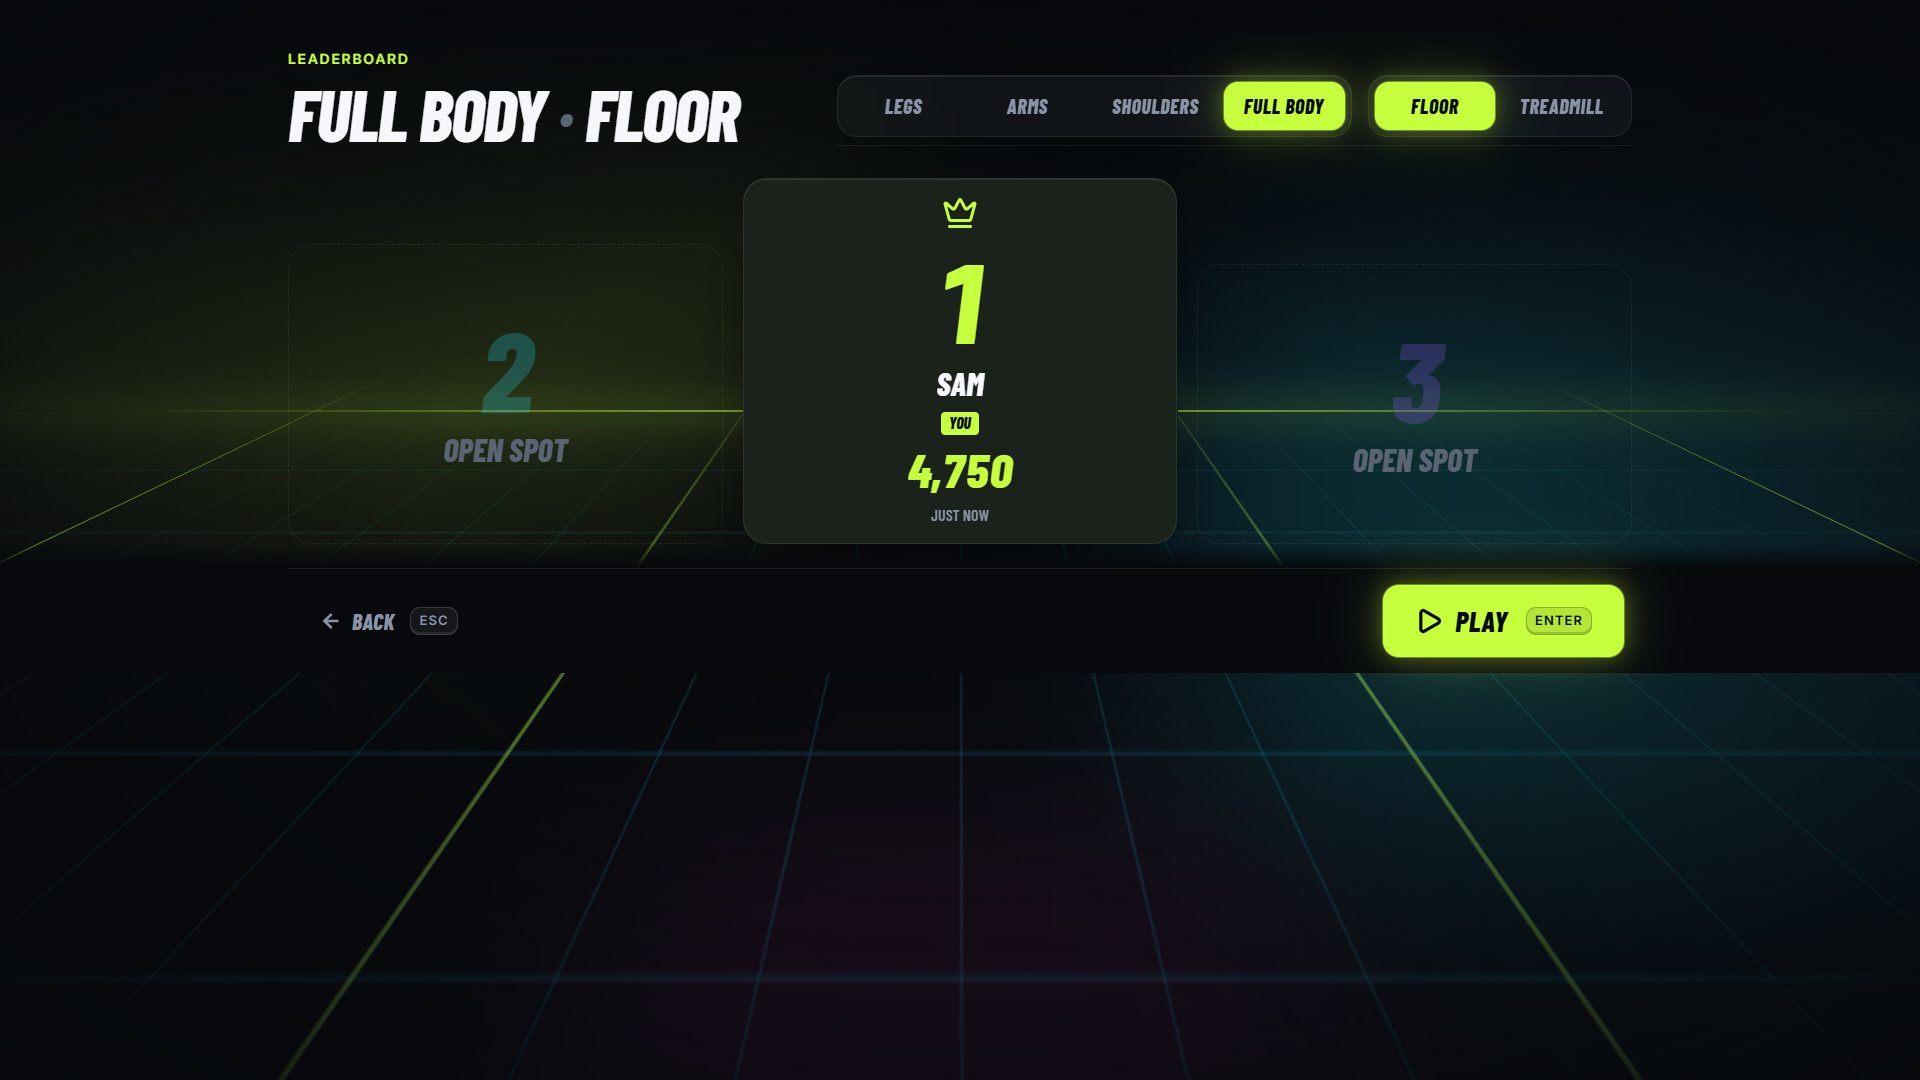
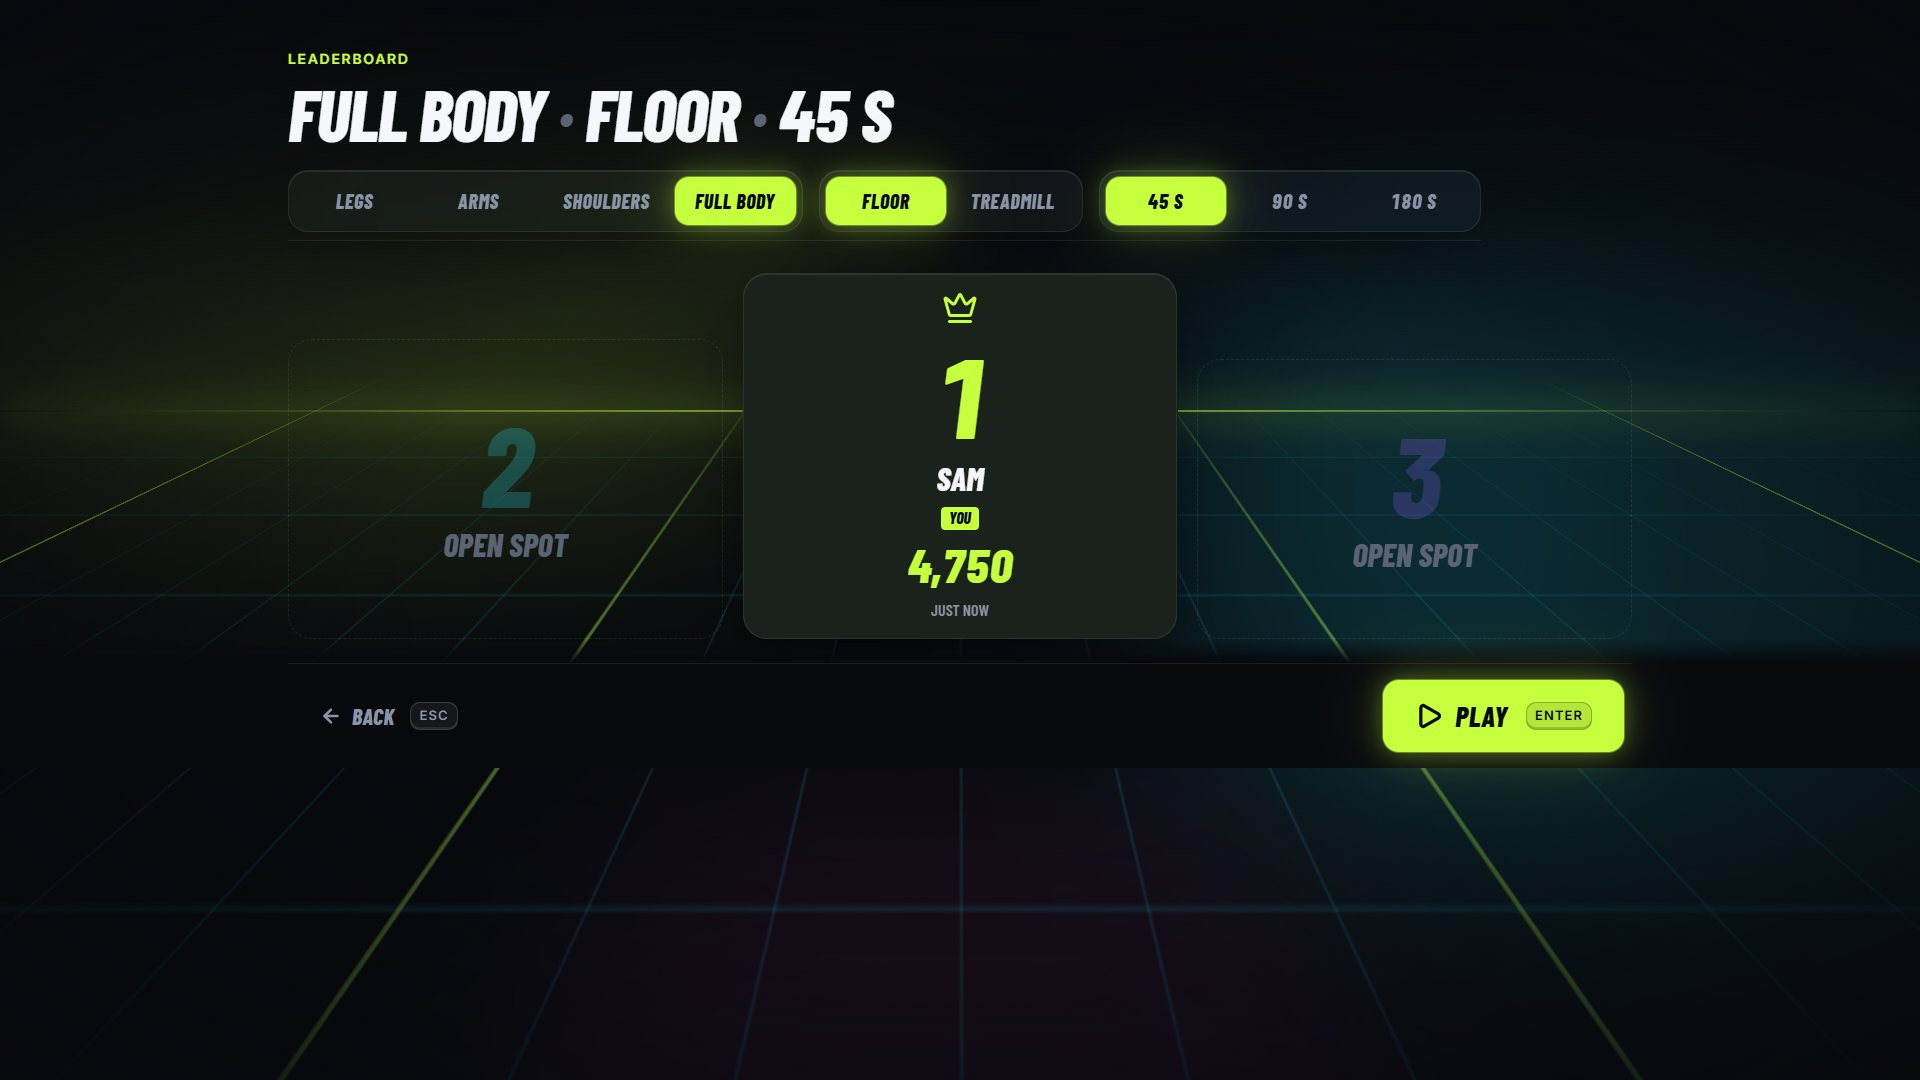
Leaderboard per round length: checked at 3 sizes, Q16 fixed, Devpost 12/13 retaken
## What changed
- `docs/QA.md`: Q16 marked fixed (verified), Q15 marked "being decided by Greg", a "Per-length boards (#45)" verification entry, log line.
- `docs/submission/12-leaderboard.jpg`, `13-kiosk.jpg` retaken on ba46d74 (title now "FULL BODY · FLOOR · 45 S", length filter visible); captions updated in `docs/SUBMISSION.md`.
- `README.md`, `docs/SUBMISSION.md`: the leaderboard is per workout, mode **and round length** (the view also carries `duration_sec` since migration 0003); kiosk shows the 45 s Full body floor board; Camera is preselected on the select screen when the laptop has one (3c1be45).
- `docs/qa/leaderboard-1280x720.jpg` new; `leaderboard-empty-filter.jpg` now shows the empty 90 s board.

## How I tested it
- `npm run dev` on `main` ba46d74, `?demo=1&store=local`, Chrome 157 headless: one scripted 45 s round (results said "#1 on the leaderboard"), then leaderboard and `?kiosk=1` at 1920×1080, 1366×768, 1280×720: group boxes, clipped options, horizontal scroll, page height. At 1280×720: 90 S (empty: title, filters and BACK stay), Treadmill (Legs disabled), back to 45 S.
- Q16: a local profile with three 45 s rounds shows "Sam" once on the landing top list, the board and the kiosk.
- The 6× figure: Patrick's measurements on `p5-game` (`src/workout/README.md`, "Leaderboard fairness": Full body floor 5,033 at 45 s vs 30,790 at 180 s, perfect play), also cited in migration 0003.
- `npm run check` passes; prettier passes on the changed docs.

## Not tested
[…]

diff --git a/README.md b/README.md
@@ -2,7 +2,7 @@
 
 **A workout you play with your whole body, using only your laptop's webcam.** Built at CodeJam 16 (McGill).
 
-Pick what to train (legs, arms, shoulders or full body) and a 3-lane neon runner is generated for that workout, through a city, a tunnel and a bridge, to a synthesised beat that speeds up as you go. You stand about 1.5 m from the laptop: sidestep to change lane, jump hurdles, squat under beams, raise your arms to smash crates and grab orbs. Each move is graded PERFECT, GOOD or LATE. Pose tracking runs in the browser, so **the video never leaves your laptop**. Every round is saved to your profile, a dashboard tracks your week, a leaderboard ranks scores, a ghost runner replays your best run beside you, and a coach recommends your next session. A treadmill mode uses upper-body moves only.
+Pick what to train (legs, arms, shoulders or full body) and a 3-lane neon runner is generated for that workout, through a city, a tunnel and a bridge, to a synthesised beat that speeds up as you go. You stand about 1.5 m from the laptop: sidestep to change lane, jump hurdles, squat under beams, raise your arms to smash crates and grab orbs. Each move is graded PERFECT, GOOD or LATE. Pose tracking runs in the browser, so **the video never leaves your laptop**. Every round is saved to your profile, a dashboard tracks your week, a leaderboard ranks best scores per workout, mode and round length (45, 90 or 180 s), a ghost runner replays your best run beside you, and a coach recommends your next session. A treadmill mode uses upper-body moves only.
 
 Live site: https://codejam-jet.vercel.app (deployed from `main`). Chrome only.
 
@@ -25,7 +25,7 @@ Live site: https://codejam-jet.vercel.app (deployed from `main`). Chrome only.
 
 Treadmill mode generates only crates and orbs. "Low impact" removes hurdles. Before the first round, "Try each move" walks through every move of the coming round.
 
-**Flow:** landing → profile (or play as a guest) → pick a workout and Camera or Keyboard → calibration (camera: stand on your mark, head to knees in view, still for 1.5 s) → 3-2-1 → round → results with the coach card → dashboard and leaderboard.
+**Flow:** landing → profile (or play as a guest) → pick a workout (Camera is preselected when the laptop has one; Keyboard is remembered if chosen) → calibration (camera: stand on your mark, head to knees in view, still for 1.5 s) → 3-2-1 → round → results with the coach card → dashboard and leaderboard.
 
 **Hands-free:** cross your forearms in an X at chest height for 1 s to pause; the same X resumes. On results, raise both arms to play again.
 
@@ -38,7 +38,7 @@ npm install
 npm run dev        # http://localhost:5173
 ```
 
-- With no `.env.local`, the app uses the **local store** (browser storage): everything works, and the leaderboard shows only this browser's rounds.
+- With no `.env.local`, the app uses the **local store** (browser storage): everything works, and the leaderboard shows only this browser's player.
 - For Supabase, `cp .env.example .env.local` and fill in `VITE_SUPABASE_URL` and `VITE_SUPABASE_ANON_KEY` (public anon key; row-level security protects the data).
 - `npm run dev` does not serve `/api`, so the coach card shows the rule-based coach. `npx vercel dev` serves the coach endpoint too.
 - `npm run check` runs typecheck, lint, the Vitest suite and the production build.
@@ -47,7 +47,7 @@ npm run dev        # http://localhost:5173
 | --- | --- |
 | `?demo=1` | Every round is the fixed 45 s Full body demo level (seed 41492) |
 | `?store=local` | Skip the backend; store everything in this browser |
-| `?kiosk=1` | Leaderboard-only screen with a QR code, refreshes every 15 s |
+| `?kiosk=1` | Leaderboard-only screen (Full body · floor · 45 s) with a QR code, refreshes every 15 s |
 | `?dev=pose` | Pose debug page: live landmarks, thresholds, move tally, clip recorder |
 | `?gfx=low` / `?gfx=2d` | Lower graphics / force the Canvas 2D fallback (otherwise automatic) |
 | `?mute=1`, `?music=off` | No sound / effects only, no music |
@@ -76,7 +76,7 @@ flowchart LR
 - **Pose** (`src/pose`): MediaPipe Pose Landmarker (lite model, GPU, served from `public/`, no CDN). Calibration records the player's hip centre, shoulder width and torso length, and every threshold is a fraction of those, so it adapts to height and distance. Design notes: [src/pose/DECISIONS.md](src/pose/DECISIONS.md).
 - **Game** (`src/game`): plain Three.js with its own loop outside React. Each object is judged over a window (0.35 s before to 0.15 s after arrival). With the camera, objects are drawn ahead of the judging clock by each move's measured detection lag (0.1 s for jumps up to 0.3 s for squats and arms), so reacting on sight lands inside the window. Details: [src/game/README.md](src/game/README.md).
 - **Levels** (`src/workout`): seeded generator with a warm-up, build, peak and cool-down, and fairness rules tested on every workout, mode and length.
-- **Backend** (`src/data`, `supabase/`, `api/`): anonymous guest sign-in; `profiles` and `sessions` behind row-level security (each user reads only their own rows); a `leaderboard` view that exposes only name, workout, mode, score and date. Rounds played offline wait in a local queue and sync later.
+- **Backend** (`src/data`, `supabase/`, `api/`): anonymous guest sign-in; `profiles` and `sessions` behind row-level security (each user reads only their own rows); a `leaderboard` view that exposes only each player's best per workout, mode and round length (name, score, date). One board per length, because a 180 s round scores about 6× a 45 s one. Rounds played offline wait in a local queue and sync later.
 - **Coach:** `POST /api/coach` checks the user's token, reads their history through row-level security (no service key), applies a per-user rate limit (one call per 10 s, atomic in Postgres), asks Claude for structured JSON with a 7 s timeout, and validates the answer. **No Claude key is configured for the demo**, so the card you see is the rule-based coach in `src/data/coach.ts`: it recommends the workout you played least this week, moves difficulty up or down from your accuracy, and points the tip at the move you missed most. Adding `ANTHROPIC_API_KEY` on the server turns the Claude path on. Its answer validation and rate limit are unit-tested; it has not yet answered with a real key.
 
 ## Privacy

diff --git a/docs/QA.md b/docs/QA.md
@@ -4,9 +4,9 @@
 
 Branches are pushed with the PR text in the first commit message (`git log --reverse main..<branch>`).
 
-1. **Decide Q15:** the HUD cue word, the "N COMBO!" banner and the "VS GHOST" chip share the top-centre band and overprint each other. Either the UI moves the cue, or Patrick moves the banner and chip (details below).
+1. **Q15 is being decided** (Greg): the HUD cue word, the "N COMBO!" banner and the "VS GHOST" chip share the top-centre band and overprint each other. Either the UI moves the cue, or Patrick moves the banner and chip (details below).
 
-## Status (Sat 15:55, `main` at bb17780)
+## Status (Sat 15:55, `main` at bb17780; leaderboard re-checked on ba46d74)
 
 Full keyboard flow at 1366×768, 1920×1080 and 1280×720 with the new game (city/tunnel/bridge zones, beat, PERFECT/GOOD/LATE, 3-2-1 intro), plus a check of every fix in #40 and #41. **No console errors, no horizontal scroll, every round finished and saved.** `npm run check` on bff0541: 699 tests, none skipped.
 
@@ -26,8 +26,8 @@ Full keyboard flow at 1366×768, 1920×1080 and 1280×720 with the new game (cit
 | Q12 | minor | Landing QR below the fold at 1366/1280 | `src/ui` | open (use `?kiosk=1`) |
 | Q13 | minor | One NaN row would block the offline queue | Greg | **fixed** (test runs and passes) |
 | Q14 | visible | "Cross your arms to resume" is small, grey, and shown to keyboard players | `src/ui` | **open** |
-| Q15 | visible | HUD cue word overprints the "N COMBO!" banner and the VS GHOST chip | `src/ui` or Patrick | **open**, needs a decision |
-| Q16 | minor | Local store leaderboard lists every round, not each player's best | Greg | **open** |
+| Q15 | visible | HUD cue word overprints the "N COMBO!" banner and the VS GHOST chip | `src/ui` or Patrick | **open**, being decided by Greg |
+| Q16 | minor | Local store leaderboard listed every round, not each player's best | Greg | **fixed**, verified |
 | A1 | visible | Results: "RAISE BOTH ARMS TO PLAY AGAIN" was 20 px | `src/ui` | **fixed** (code; camera-only screen) |
 | A2 | visible | Tutorial hint was 20 px grey | Greg | **fixed**, verified |
 | A3 | minor | Tracking-lost subtext 16 px; "Camera starting…" 14 px | `src/ui` | half fixed: "Camera starting…" open |
@@ -52,11 +52,6 @@ Full keyboard flow at 1366×768, 1920×1080 and 1280×720 with the new game (cit
 - **Cause:** the cue is in the top band (`hud-cue`, `top-[124px]`, `GameHud.tsx:238`), where the game draws its banner (`BANNER_POS` y 3.3) and race chip (`RACE_POS` y 6.2, `src/game/tuning.ts`).
 - **Owner:** `src/ui` or Patrick; needs one decision. **Fix options (untested):** move the banner and chip lower, between the cue band and the horizon; or move the cue to one side of the top band (e.g. under the score) so the centre stays free for the game's labels.
 
-### Q16. Local store leaderboard shows the same player twice
-- **Steps:** `?store=local`, play two rounds with one guest → Leaderboard (or `?kiosk=1`).
-- **Saw:** "Sam" at #1 (4,750) and #2 (1,750). The Supabase `leaderboard` view keeps each user's best only (CONTRACTS.md), so only the offline path differs.
-- **Owner:** Greg (`src/data/local.ts` `getLeaderboard`). **Fix:** keep the best session per display name before sorting.
-
 ### Q12, A3 (minor)
 - **Q12:** the landing "Play on your laptop" QR starts at y 748 (below the fold at 720, at the edge at 768) ([landing-1366.jpg](qa/landing-1366.jpg)). Use `?kiosk=1` for the QR at the table.
 - **A3:** calibration "Camera starting…" is still a 14 px muted eyebrow (`CalibrationScreen.tsx:117`) while the player walks to the mark. Fix: `font-display-italic text-display-sm text-text`.
@@ -74,6 +69,8 @@ Full keyboard flow at 1366×768, 1920×1080 and 1280×720 with the new game (cit
 - **Q9, Q10** (5a85969): offline mid-round → banner at the bottom, "Offline. Your rounds are saved on this laptop." on the local store ([offline-banner.jpg](qa/offline-banner.jpg)); no NOT SYNCED.
 - **Q11:** dashboard says "1 DAY" and "1 round · Best …".
 - **Q13:** the `mapping-edges` test runs and passes.
+- **Q16** (ba46d74): a local profile with three 45 s rounds (best 4,750) shows "Sam" once on the landing top list, the leaderboard and `?kiosk=1`.
+- **Per-length boards (#45, ba46d74):** at 1920×1080, 1366×768 and 1280×720 the three filter groups (workout, mode, 45/90/180 S) sit on one row with nothing clipped and no horizontal scroll ([leaderboard-1280x720.jpg](qa/leaderboard-1280x720.jpg)); 1280×720 is 722 px tall (a 2 px scroll). 90 S with no rounds keeps the title "FULL BODY · FLOOR · 90 S", the filters and BACK ([leaderboard-empty-filter.jpg](qa/leaderboard-empty-filter.jpg)); Legs is disabled on Treadmill; results said "#1 on the leaderboard" for the 45 s round. `?kiosk=1` shows the 45 s board with no filters at all three sizes, no scroll. Not tested: Supabase (migration 0003 and other players on the board).
 - **A1:** `ResultsScreen.tsx` now uses `text-display-sm` (48 px) and a 96 px figure. Only shown with the camera, so read from code.
 - **A2** (5a85969): tutorial counter 32 px, move name 72 px, hint 48 px white ([tutorial-1280x720.jpg](qa/tutorial-1280x720.jpg)).
 - **A3, first half:** the tracking-lost subtext is `text-title text-text` (32 px, white).
@@ -120,3 +117,4 @@ Open suggestions: preload the pose model on the landing page for live-URL visito
 | 15:50 | Operator card (`q-operator`), pitch 2 (`q-pitch-2`) | Card from DEMO.md and the app; Q&A for the new features; round timed at 50.1 s START → results |
 | 15:55 | Verify #41 on bb17780 (`q-qa-2`) | Q1, Q3, Q4, Q5, Q7, Q11, A1 fixed; A3 half; Q12, Q14, Q15, Q16 open |
 | 16:04 | Loop: #42 on bff0541 | New scenery colours and bigger icons; Devpost game frames retaken (`q-shots`); Q15 re-checked, still open; 699 tests |
+| 16:25 | Leaderboard per length (`q-board`, ba46d74) | 3 sizes: filters fit on one row, empty 90 s board keeps filters, kiosk shows 45 s; Q16 verified fixed; 12/13 Devpost shots retaken; README/SUBMISSION board wording updated. Not tested: Supabase |

diff --git a/docs/SUBMISSION.md b/docs/SUBMISSION.md
@@ -42,7 +42,7 @@ Three people, four modules, one shared TypeScript contract file (`src/contracts/
 - **Levels.** A seeded generator (same seed, same level) shapes each round into warm-up, build, peak and cool-down, and enforces fairness rules: the first object at 4 s or later, at least 1.1 s between waves, 1.5 s between a beam and a hurdle, and a block always leaves a free lane at most one lane from the last one. They are tested on every workout × mode × difficulty × length × 40 seeds.
 - **Ghost runner.** The game records five states (lane, airborne, ducking, each arm) at 20 Hz of game time, about 1 KB per 45 s level, in browser storage. A 64-bit fingerprint of the level makes sure a ghost only replays on the identical level. The live "vs ghost" score comes from judging the recording with a shadow copy of the game rules. Camera and keyboard ghosts are kept apart, because a keyboard run has no lag and would be unbeatable.
 - **Graphics that adapt.** The game steps down its own quality (pixel ratio, then bloom) when it runs under 45 FPS, and falls back to a Canvas 2D view if WebGL cannot start.
-- **Backend.** Supabase anonymous sign-in and Postgres. Row-level security on every table: a player can read and insert only their own sessions, with no update or delete. A `leaderboard` view exposes only name, workout, mode, score and date. Check constraints keep stored values in sane ranges.
+- **Backend.** Supabase anonymous sign-in and Postgres. Row-level security on every table: a player can read and insert only their own sessions, with no update or delete. A `leaderboard` view exposes only each player's best per workout, mode and round length (name, score, date); one board per length, because a 180 s round scores about 6× a 45 s one. Check constraints keep stored values in sane ranges.
 - **Offline.** If the network drops, the round is still played and saved. Sessions wait in a local queue and sync later, reads time out quickly and fall back to cache, and the coach falls back to the rules. `?store=local` runs with no backend at all.
 - **Coach endpoint.** A Vercel serverless function checks the player's token, reads their history through a Supabase client that carries that token (so row-level security applies on the server too and no service key is needed), and allows at most one call per player every 10 s with an atomic Postgres function. It asks Claude for JSON matching a schema, with a 7 s timeout and no retries, and validates the answer before returning it. **For the demo no Claude key is configured**, so the coach card shows the rule-based coach (it says RULES). It recommends the workout you played least this week, raises difficulty by 0.1 above 85% accuracy and lowers it below 60%, and aims the tip at your most-missed move.
 - **Quality.** 699 automated tests (Vitest). A mutation sweep set each of the 23 detection thresholds to an extreme value, and every one breaks at least one test.
@@ -113,11 +113,11 @@ Real captures at 1920×1080 from `main` (bb17780 and bff0541), in [docs/submissi
 | [09-milestone](submission/09-milestone.jpg) | Play, finale | "20 COMBO!" banner (the REACH cue sits just above it, QA Q15), shockwave ring, PERFECT, +150 ORB |
 | [10-results](submission/10-results.jpg) | Results | 4,750 at 100%, grade S, reps per move, coach card (RULES) with NEXT UP |
 | [11-dashboard](submission/11-dashboard.jpg) | Dashboard | Weekly ring, day streak, 7-day chart, reps by move, coach's pick |
-| [12-leaderboard](submission/12-leaderboard.jpg) | Leaderboard | Podium with filters |
-| [13-kiosk](submission/13-kiosk.jpg) | `?kiosk=1` | "Beat 4,750 to take the crown", QR code |
+| [12-leaderboard](submission/12-leaderboard.jpg) | Leaderboard | Full body · floor · 45 s podium; filters for workout, mode and round length |
+| [13-kiosk](submission/13-kiosk.jpg) | `?kiosk=1` | The 45 s board: "Beat 4,750 to take the crown", QR code |
 
 **Retake before submitting if you can:**
 - One shot with the **camera**, showing the preview and skeleton in the corner, and `?dev=pose` (landmarks and threshold lines). This machine has no camera.
 - The leaderboard and kiosk on the **live site** after the team's real rounds: the local store holds one player, so the podium shows a single name.
 
-Select, results and dashboard were retaken on `main` bb17780 after the UI fixes in #41; the game frames (04–09) on bff0541 after the new scenery colours and icons in #42.
+Select, results and dashboard were retaken on `main` bb17780 after the UI fixes in #41; the game frames (04–09) on bff0541 after the new scenery colours and icons in #42; leaderboard and kiosk (12, 13) on ba46d74 after the per-length boards in #45.
